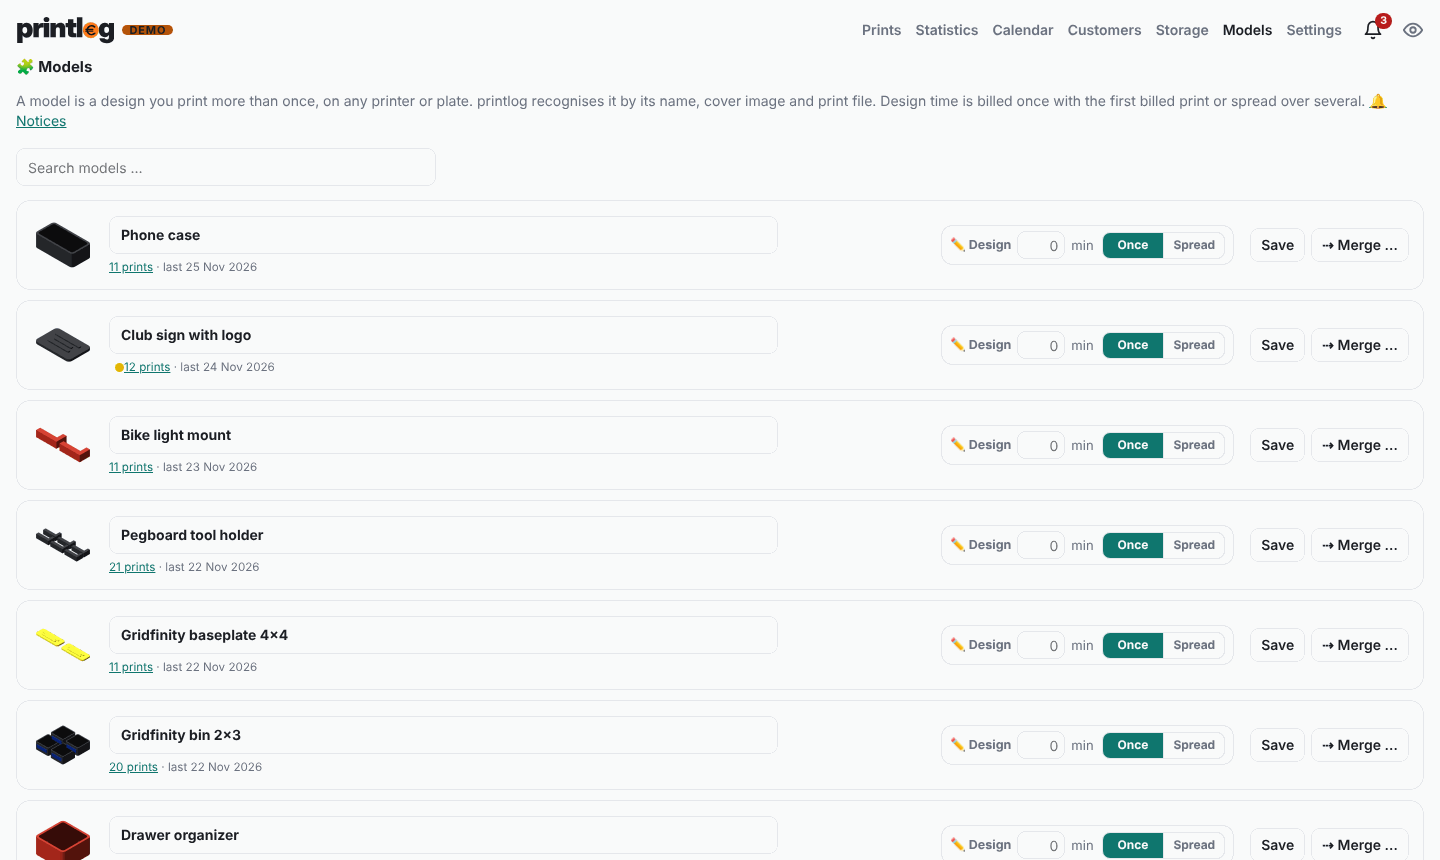
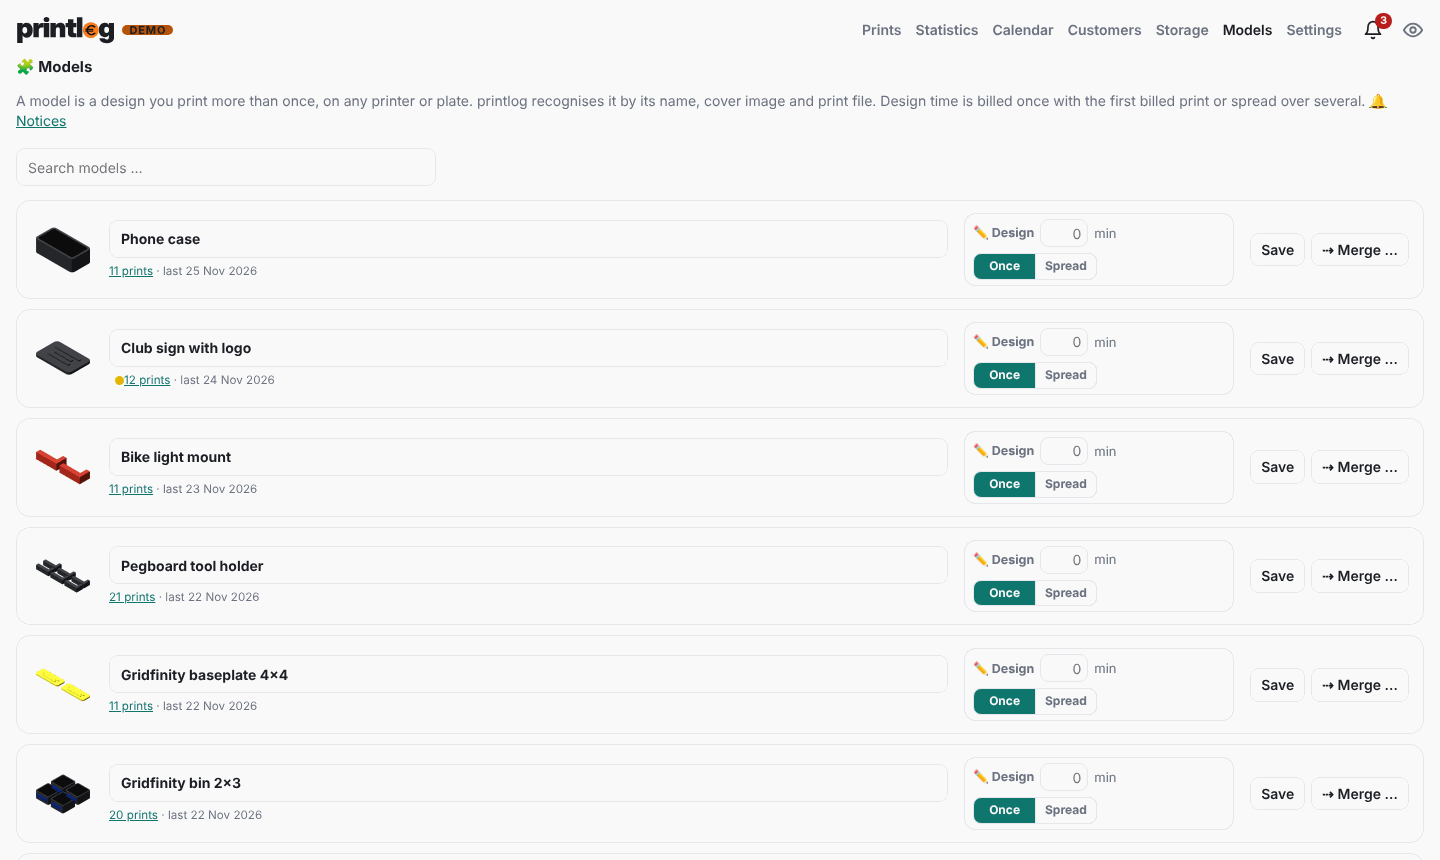
Modelle-Seite: Design oben, Einmalig/Verteilt darunter
Claude-Session: https://claude.ai/code/session_016QS8kLCpfAFka2Kzu3XCw3

diff --git a/app/models.py b/app/models.py
@@ -697,12 +697,12 @@ CSS = """
  border-radius:14px;padding:12px 14px}
 .mdrow.mdhl{box-shadow:0 0 0 2px var(--accent)}
 .mimg img,.mimg .ph{width:64px;height:64px;border-radius:10px;object-fit:cover;display:block;background:var(--bg)}
-.mdf{display:grid;grid-template-columns:minmax(0,1fr) 440px auto;gap:16px;align-items:center;margin:0}
+.mdf{display:grid;grid-template-columns:minmax(0,1fr) 270px auto;gap:16px;align-items:center;margin:0}
 .mdname input{font-weight:700;width:100%;box-sizing:border-box}.mdname small{display:block;margin-top:5px}
 .als{display:flex;flex-wrap:wrap;gap:4px;margin-top:6px}.als:empty{display:none}
 .al{display:inline-flex;align-items:center;gap:2px;border:1px solid var(--line);border-radius:999px;padding:0 2px 0 9px;font-size:12px;color:var(--muted);margin:0}
 .al button{border:0;background:none;color:var(--muted);cursor:pointer;padding:2px 6px;min-height:0}
-.mdbox{justify-self:end;display:flex;align-items:center;gap:8px;border:1px solid var(--line);border-radius:11px;padding:5px 8px;background:color-mix(in srgb,var(--fg) 3%,transparent)}
+.mdbox{justify-self:stretch;display:flex;flex-direction:column;align-items:flex-start;gap:6px;border:1px solid var(--line);border-radius:11px;padding:5px 8px;background:color-mix(in srgb,var(--fg) 3%,transparent)}
 .mdes{display:flex;align-items:center;gap:6px}.mdes .lb{font-size:12.5px;color:var(--muted);font-weight:700;white-space:nowrap}
 .mdes .mv{display:flex;align-items:center;gap:6px;font-size:13px;color:var(--muted)}.mdes input{width:48px;text-align:right;padding:3px 6px;min-height:0;height:28px}
 .mr2{display:flex;align-items:center;gap:8px}
@@ -727,9 +727,9 @@ CSS = """
 .mmpop .it img,.mmpop .it .ph{width:34px;height:34px;border-radius:8px;object-fit:cover;background:var(--bg);flex:none}
 .mmpop .it .n{overflow:hidden;text-overflow:ellipsis;white-space:nowrap}.mmpop .it small{margin-left:auto;color:var(--muted);font-weight:500;font-size:12px;white-space:nowrap;padding-left:8px}
 .mmpop .none{color:var(--muted);padding:10px 8px}.mmf{display:none}
-@media (max-width:1180px){.mdf{grid-template-columns:minmax(0,1fr) auto}.mact{grid-column:1/-1;justify-content:flex-end}.mact .btn{width:auto}}
+@media (max-width:1000px){.mdf{grid-template-columns:minmax(0,1fr) 270px}.mact{grid-column:1/-1;justify-content:flex-end}.mact .btn{width:auto}}
 @media (max-width:760px){.mhint{flex-direction:column}.mhj{width:auto}
- .mdbox{flex-wrap:wrap;justify-self:stretch}.mact{justify-content:stretch}.mact .btn{flex:1}
+ .mdbox{justify-self:stretch}.mact{justify-content:stretch}.mact .btn{flex:1}
  .mdrow{grid-template-columns:52px minmax(0,1fr);align-items:start}.mimg img,.mimg .ph{width:52px;height:52px}
  .mdf{grid-template-columns:minmax(0,1fr)}.mdf>*{min-width:0}
  .mmpop{position:fixed;left:0!important;right:0;bottom:0;top:auto!important;width:auto;max-width:none;border-radius:22px 22px 0 0;padding:10px 16px calc(18px + env(safe-area-inset-bottom))}
